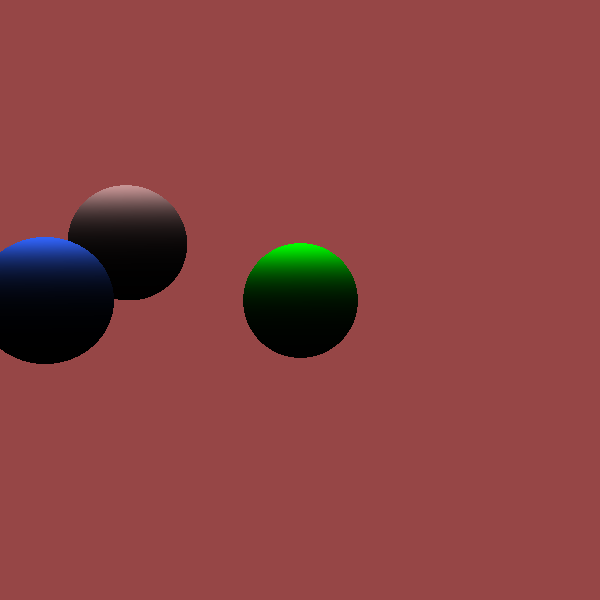
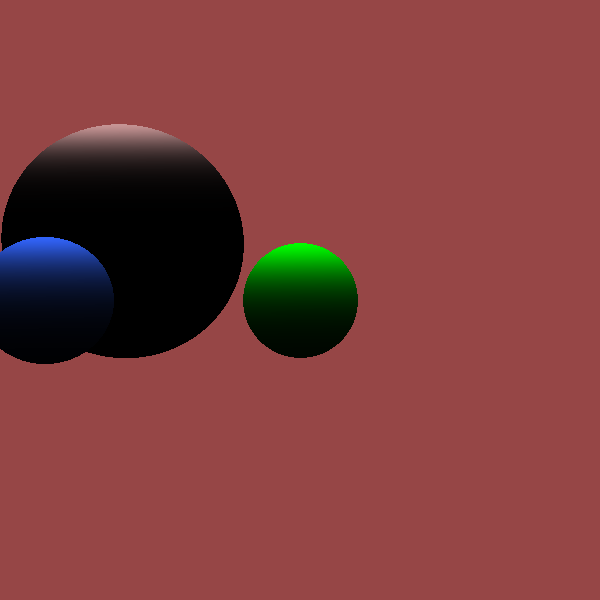
added a little very very little phong shader, with no light sources yet but the math is almost complete.

Changed region(s): [[0.0, 0.18, 0.6, 0.6]]

diff --git a/src/core/world/shapes/Sphere.java b/src/core/world/shapes/Sphere.java
@@ -2,6 +2,7 @@ package core.world.shapes;
 
 import core.Globals;
 import core.world.ray.Ray;
+import core.world.ray.RayInfo;
 import core.world.shading.Color;
 import core.world.shading.Material;
 import org.apache.commons.math3.geometry.euclidean.threed.Vector3D;
@@ -10,9 +11,8 @@ public class Sphere implements IShape
 {
 
     public double radius;
-    public double distance;
-
     public Vector3D position;
+
     public Material material;
 
     public Sphere(double x, double y, double z, double r, Color color)
@@ -29,19 +29,21 @@ public class Sphere implements IShape
     }
 
     @Override
-    public boolean intersects(Ray ray, double dist)
+    public RayInfo intersects(Ray ray, double dist)
     {
+        RayInfo rayInfo = new RayInfo();
+
         Vector3D origin = ray.orig;
         Vector3D direction = ray.dir;
-        Vector3D OC = position.subtract(origin);
+        Vector3D OC = position.subtract(origin); //L
         double tca = OC.dotProduct(direction);
-        //System.out.println(tca);
-        if (tca < 0)
-            return false;
+
+        if (tca < 0) //because cannot be negative.
+            return rayInfo;
 
         double d2 = OC.dotProduct(OC) - (tca * tca);
         if (d2 > radius * radius)
-            return false;
+            return rayInfo;
 
 
         double thc = Math.sqrt(radius * radius - d2);
@@ -59,7 +61,7 @@ public class Sphere implements IShape
         double b = 2 * OC2.dotProduct(direction);
         double c = OC2.dotProduct(OC2) - (radius * radius);
         if (!solveQuadratic(a, b, c, t0, t1))
-            return false;
+            return rayInfo;
 
 
         if (t0 < 0)
@@ -67,13 +69,30 @@ public class Sphere implements IShape
             t0 = t1;
             if (t0 < 0)
             {
-                return false;
+                return rayInfo;
             }
         }
-        this.distance = Math.min(t0, t1); // this is correct.
-        System.out.println(this.distance);
-        return true;
+        rayInfo.didIntersect = true;
+
+        //Assignment. reset variables
+        rayInfo.distance = Math.min(t0, t1); //assign distance.
+        rayInfo.phit = getIntersectionPoint(ray.orig, ray.dir, rayInfo.distance); //assign hit point
+        rayInfo.nhit = getIntersectionPointNormal(rayInfo.phit); //assign hit point normal from center
+        //material.color.shade(rayInfo.nhit, ray.orig.normalize());
+
+        return rayInfo;
     }
+
+    public Vector3D getIntersectionPoint(Vector3D rayOrgin, Vector3D rayDirection, double t)
+    {
+        return rayOrgin.add(rayDirection.scalarMultiply(t));
+    }
+
+    public Vector3D getIntersectionPointNormal(Vector3D hitPoint)
+    {
+        return hitPoint.subtract(position).normalize();
+    }
+
 
     public boolean solveQuadratic(double a, double b, double c, double x0, double x1)
     {
@@ -106,23 +125,8 @@ public class Sphere implements IShape
     //TODO: UNDERSTAND THEN REFACTOR
     public void paint(int x, int y)
     {
-        material.color.shade(new Vector3D(-5, -1, 1.5), new Vector3D(-1, 6, 1.00), 0.126, 1.747); //fucking hell, it works? hory shit
+        material.color.shade(new Vector3D(-5, -1, 1.5), new Vector3D(-1, 6, 1.00), 0.126, 1.7473);
         Globals.outputRenderedImage.getRaster().setPixel(x, y, material.getRGBArray());
-    }
-
-    /**
-     * gets the intersection point on the sphere.
-     *
-     * @return
-     */
-    public Vector3D getIntersectionPoint()
-    {
-        return null;
-    }
-
-    public double getDistance()
-    {
-        return this.distance;
     }
 
 }

diff --git a/src/core/world/shading/PhongShader.java b/src/core/world/shading/PhongShader.java
@@ -1,14 +1,100 @@
 package core.world.shading;
 
+import org.apache.commons.math3.geometry.euclidean.threed.Vector3D;
+
 /**
- * based on https://mrl.nyu.edu/~perlin/courses/fall2005ugrad/phong.html
  * Created by Gabriel Jadderson on 30-04-2017.
  */
 public class PhongShader
 {
-    Color ambient;
-    Color diffuse;
-    Color specular;
 
+    public double ior = 1.3;
+    public double Kd = 0.8;
+    public double Ks = 0.2;
+    public double diffuseColor = 0.2;
+    public double specularExponent = 25;
+
+    public Vector3D reflect(Vector3D I, Vector3D N)
+    {
+        return I.subtract(N.scalarMultiply(2 * I.dotProduct(N)));
+    }
+
+    public Vector3D refract(Vector3D I, Vector3D N, double ior)
+    {
+        double cosi = clamp(-1, 1, I.dotProduct(N));
+        double etai = 1;
+        double etat = ior;
+
+        Vector3D n = N;
+        if (cosi < 0)
+        {
+            cosi = -cosi;
+        } else
+        {
+            double temp = etat;
+            etat = etai;
+            etai = temp;
+            n.negate();
+        }
+        double eta = etai / etat;
+        double k = 1 - eta * eta * (1 - cosi * cosi);
+
+        if (k < 0)
+        {
+            return new Vector3D(0, 0, 0);
+        } else
+        {
+            double dx = eta * cosi - Math.sqrt(k);
+            I.scalarMultiply(eta);
+            n.scalarMultiply(dx);
+            return new Vector3D(I.getX() * n.getX(), I.getY() * n.getY(), I.getZ() * n.getZ());
+        }
+    }
+
+    public double clamp(double low, double high, double v)
+    {
+        return Math.max(low, Math.min(high, v));
+    }
+
+    public Vector3D mix(Vector3D a, Vector3D b, double mixValue)
+    {
+        a.scalarMultiply(1 - mixValue);
+        b.scalarMultiply(mixValue);
+        return new Vector3D(a.getX() + b.getX(), a.getY() + b.getY(), a.getZ() + b.getZ());
+    }
+
+    public double deg2rad(double deg)
+    {
+        return deg * Math.PI / 180;
+    }
+
+    public void fresnel(Vector3D I, Vector3D N, double ior, double kr)
+    {
+        double cosi = clamp(-1, 1, I.dotProduct(N));
+        double etai = 1;
+        double etat = ior;
+        if (cosi > 0)
+        {
+            cosi = -cosi;
+        } else
+        {
+            double temp = etat;
+            etat = etai;
+            etai = temp;
+        }
+
+        double sint = etai / etat * Math.sqrt(Math.max(0.0, 1 - cosi * cosi));
+        if (sint >= 1)
+        {
+            kr = 1;
+        } else
+        {
+            double cost = Math.sqrt(Math.max(0.0, 1 - sint * sint));
+            cosi = Math.abs(cosi);
+            double Rs = ((etat * cosi) - (etai * cost)) / ((etat * cosi) + (etai * cost));
+            double Rp = ((etai * cosi) - (etat * cost)) / ((etai * cosi) + (etat * cost));
+            kr = (Rs * Rs + Rp * Rp) / 2;
+        }
+    }
 
 }

diff --git a/src/core/world/shading/Color.java b/src/core/world/shading/Color.java
@@ -82,20 +82,31 @@ public class Color
         */
     }
 
-    public void shade(Vector3D light_vector, Vector3D normal_vector, double ambient_coefficient, double diffuse_coefficient)
+    public void shade(Vector3D hitNorm, Vector3D viewDirection)
     {
-        double shade = light_vector.dotProduct(normal_vector);
+        clamp();
+        PhongShader phongShader = new PhongShader();
+        double spec = phongShader.reflect(new Vector3D(0, 1, 0), hitNorm).dotProduct(viewDirection);
+        System.out.println(spec);
+        double dx = spec * 2.909 + 32895.5;
+        System.out.println(dx);
+        add(dx);
+        unclamp();
+    }
+
+    //old shader
+    public void shade(Vector3D L, Vector3D N, double ambient_coefficient, double diffuse_coefficient)
+    {
+        double shade = L.dotProduct(N);
         if (shade < 0)
             shade = 0;
         multiply(ambient_coefficient + diffuse_coefficient * shade);
     }
 
-
     double cubicCurve(double a)
     {
         return a * a * (3.0f - 2.0f * a);
     }
-
 
     double lerp(double p1, double p2, double a)
     {
@@ -108,7 +119,6 @@ public class Color
         this.g = a.g * (1 - t) + b.g * t;
         this.b = a.b * (1 - t) + b.b * t;
     }
-
 
     public void clamp(double min, double max)
     {
@@ -139,7 +149,6 @@ public class Color
         g = (double) ((int) (g * 255));
         b = (double) ((int) (b * 255));
     }
-
 
     public void multiply(double t)
     {

diff --git a/src/core/Main.java b/src/core/Main.java
@@ -1,11 +1,11 @@
 package core;
 
 import core.gui.GUI;
+import core.world.camera.Camera;
+import core.world.ray.Ray;
 import core.world.shading.Color;
 import core.world.shapes.IShape;
 import core.world.shapes.Sphere;
-import core.world.camera.Camera;
-import core.world.ray.Ray;
 import org.apache.commons.math3.geometry.euclidean.threed.Vector3D;
 
 import javax.imageio.ImageIO;
@@ -48,7 +48,7 @@ public class Main
 
                 for (IShape shape : shapeList)
                 {
-                    if (shape.intersects(ray, 1))
+                    if (shape.intersects(ray, 1).didIntersect)
                     {
                         //System.out.println(shape.getDepth());
                         shape.paint(x, y);
@@ -62,7 +62,7 @@ public class Main
     public static void createAndAddObjects()
     {
         Sphere mySphere_1 = new Sphere(0.0, 0.0, 2.5, 1.0, new Color(0, 255, 0));
-        Sphere mySphere_2 = new Sphere(-3.0, -1.0, 2.5, 1.0, new Color(200, 150, 150));
+        Sphere mySphere_2 = new Sphere(-3.0, -1.0, 2.5, 2.0, new Color(200, 150, 150));
         Sphere mySphere_3 = new Sphere(-4.0, 0.0, 1.5, 1.0, new Color(50, 100, 250));
 
         shapeList.add(mySphere_1);

diff --git a/src/core/world/ray/RayInfo.java b/src/core/world/ray/RayInfo.java
@@ -1,5 +1,7 @@
 package core.world.ray;
 
+import org.apache.commons.math3.geometry.euclidean.threed.Vector3D;
+
 /**
  * The purpose of this class is to hold all the objects generated from a intersection, distance, direction, normal, and intersection point.
  * currently the intersection returns a boolean, this class extends that functionality to return a RayInfo object with multiple return values.
@@ -7,4 +9,9 @@ package core.world.ray;
  */
 public class RayInfo
 {
+    public boolean didIntersect = false; //default false;
+    public Vector3D phit; //hit position
+    public Vector3D nhit; //normal of the hit
+    public double distance;
+
 }

diff --git a/src/core/world/shapes/Triangle.java b/src/core/world/shapes/Triangle.java
@@ -1,7 +1,8 @@
 package core.world.shapes;
 
-import core.world.shading.Material;
 import core.world.ray.Ray;
+import core.world.ray.RayInfo;
+import core.world.shading.Material;
 import org.apache.commons.math3.geometry.euclidean.threed.Vector3D;
 
 /**
@@ -22,9 +23,9 @@ public class Triangle implements IShape
 
 
     @Override
-    public boolean intersects(Ray ray, double dist)
+    public RayInfo intersects(Ray ray, double dist)
     {
-        return false;
+        return null;
     }
 
     @Override

diff --git a/src/core/world/light/Light.java b/src/core/world/light/Light.java
@@ -31,7 +31,7 @@ public class Light
                 //background.setPaint(x, y, background.color);
                 for (IShape shape : shapeList)
                 {
-                    if (shape.intersects(myRay, 1))
+                    if (shape.intersects(myRay, 1).didIntersect)
                     {
                         //System.out.println(shape.getDepth());
                         //shape.getMaterial().setPaint(x, y, shape.getMaterial().getColor().calcDepth(shape.getDepth()));

diff --git a/src/core/world/shapes/TriangulatedMesh.java b/src/core/world/shapes/TriangulatedMesh.java
@@ -1,6 +1,7 @@
 package core.world.shapes;
 
 import core.world.ray.Ray;
+import core.world.ray.RayInfo;
 
 /**
  * Created by Gabriel Jadderson on 30-04-2017.
@@ -8,9 +9,9 @@ import core.world.ray.Ray;
 public class TriangulatedMesh implements IShape
 {
     @Override
-    public boolean intersects(Ray ray, double dist)
+    public RayInfo intersects(Ray ray, double dist)
     {
-        return false;
+        return null;
     }
 
     @Override

diff --git a/src/core/world/shapes/IShape.java b/src/core/world/shapes/IShape.java
@@ -1,10 +1,11 @@
 package core.world.shapes;
 
 import core.world.ray.Ray;
+import core.world.ray.RayInfo;
 
 public interface IShape
 {
-    boolean intersects(Ray ray, double dist);
+    RayInfo intersects(Ray ray, double dist);
 
     void paint(int x, int y);
 

diff --git a/src/core/world/shapes/Plane.java b/src/core/world/shapes/Plane.java
@@ -1,0 +1,8 @@
+package core.world.shapes;
+
+/**
+ * Created by Gabriel Jadderson on 12-05-2017.
+ */
+public class Plane
+{
+}
